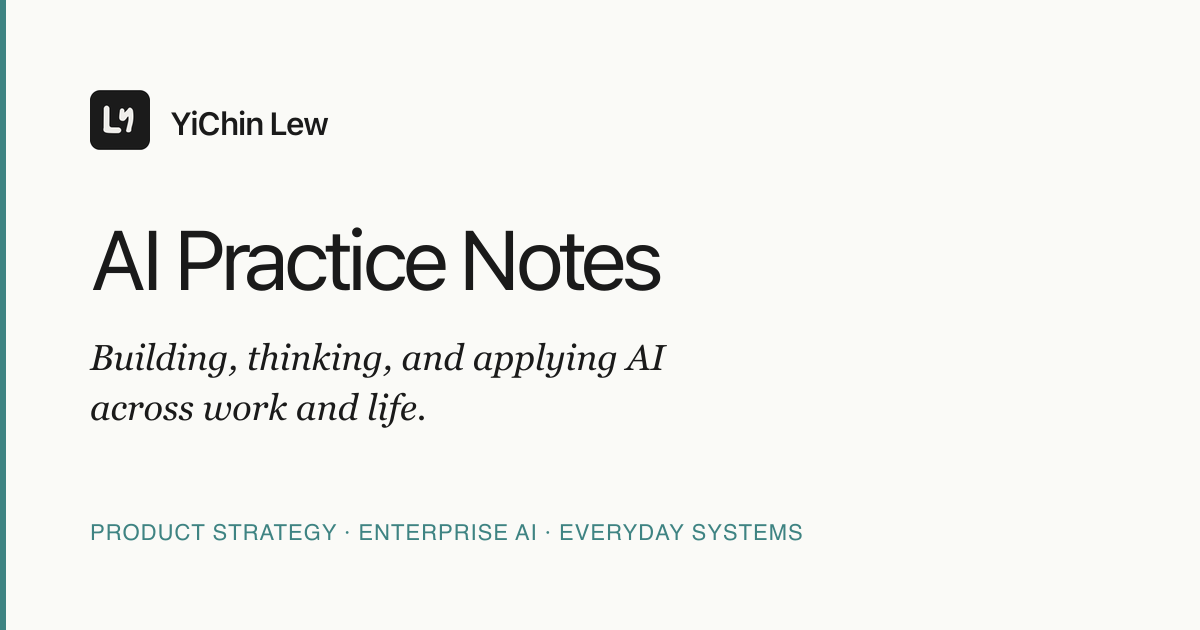
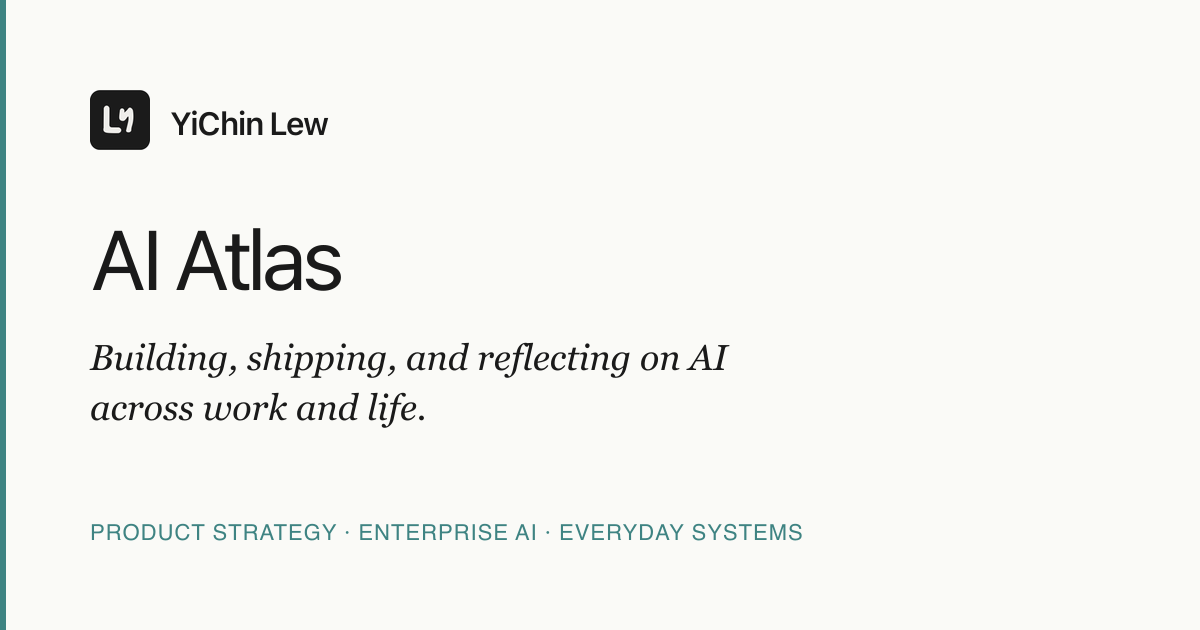
Rename site to AI Atlas
Updates hero, browser tab, OG metadata, and social card image
to AI Atlas. Also syncs index.html tagline to match the site
copy: "Building, shipping, and reflecting on AI across work
and life."

Co-built with Claude.

Changed region(s): [[0.1233, 0.3619, 0.555, 0.4825], [0.185, 0.5429, 0.6167, 0.6032]]

diff --git a/index.html b/index.html
@@ -7,23 +7,23 @@
     <link rel="preconnect" href="https://fonts.googleapis.com" />
     <link rel="preconnect" href="https://fonts.gstatic.com" crossorigin />
     <link rel="stylesheet" href="https://fonts.googleapis.com/css2?family=Inter:wght@400;500;600;700&family=Manrope:wght@400;500;600;700&family=Spectral:ital,wght@0,400;0,500;1,400&display=swap" />
-    <title>AI Practice Notes — YiChin Lew</title>
-    <meta name="description" content="Building, thinking, and applying AI across work and life. By YiChin Lew." />
+    <title>AI Atlas — YiChin Lew</title>
+    <meta name="description" content="Building, shipping, and reflecting on AI across work and life. By YiChin Lew." />
 
     <!-- Open Graph (LinkedIn, Slack, Facebook preview cards) -->
-    <meta property="og:title" content="AI Practice Notes — YiChin Lew" />
-    <meta property="og:description" content="Building, thinking, and applying AI across work and life." />
+    <meta property="og:title" content="AI Atlas — YiChin Lew" />
+    <meta property="og:description" content="Building, shipping, and reflecting on AI across work and life." />
     <meta property="og:type" content="website" />
     <meta property="og:url" content="https://lyichin.github.io/" />
     <meta property="og:image" content="https://lyichin.github.io/og-image.png" />
     <meta property="og:image:width" content="1200" />
     <meta property="og:image:height" content="630" />
-    <meta property="og:image:alt" content="AI Practice Notes — Building, thinking, and applying AI across work and life. By YiChin Lew." />
+    <meta property="og:image:alt" content="AI Atlas — Building, shipping, and reflecting on AI across work and life. By YiChin Lew." />
 
     <!-- Twitter Card preview -->
     <meta name="twitter:card" content="summary_large_image" />
-    <meta name="twitter:title" content="AI Practice Notes — YiChin Lew" />
-    <meta name="twitter:description" content="Building, thinking, and applying AI across work and life." />
+    <meta name="twitter:title" content="AI Atlas — YiChin Lew" />
+    <meta name="twitter:description" content="Building, shipping, and reflecting on AI across work and life." />
     <meta name="twitter:image" content="https://lyichin.github.io/og-image.png" />
   </head>
   <body>

diff --git a/src/pages/Home.jsx b/src/pages/Home.jsx
@@ -9,7 +9,7 @@ export default function Home() {
     <>
       <section className="hero">
         <div className="container">
-          <h1>AI Builds</h1>
+          <h1>AI Atlas</h1>
           <div className="hero-byline">by YiChin Lew</div>
           <div className="hero-subtitle">
             Building, shipping, and reflecting on AI across work and life.
